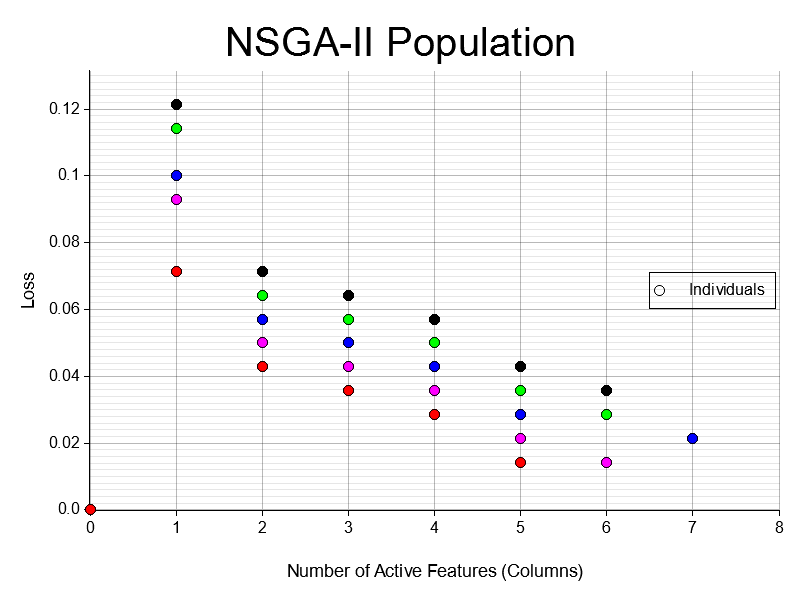
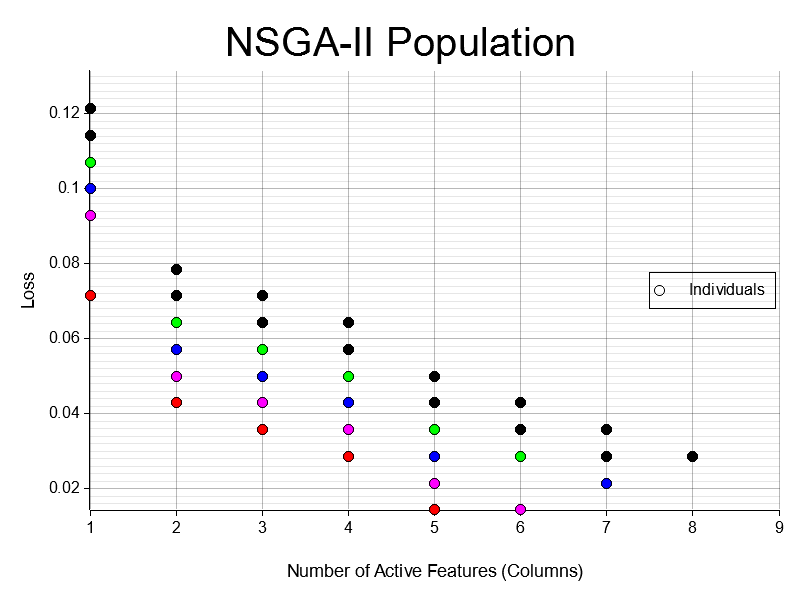
Fixed issue with possibility of spawning w zero selected features

diff --git a/src/algorithms/moo/moo.rs b/src/algorithms/moo/moo.rs
@@ -107,20 +107,25 @@ impl From<Combination> for MooCombination {
 /// Creates a single MooCombination, either from an existing Combination in `data`
 /// or as a brand new one with random bits.
 pub fn create_individual(gene_length: usize, data: &Vec<Combination>) -> MooCombination {
-    let mut activated_columns = vec![false; gene_length];
     let mut rng = rand::rng();
 
-    // Randomly generate a bit vector of length = num_columns
-    let num_columns = 9;
-    for i in 0..num_columns {
-        let random_value: f64 = rng.random_range(0.0..1.0);
-        activated_columns[i] = random_value < 0.5;
+    let mut activated_columns = vec![false; gene_length];
+
+    let num_active = rng.random_range(1..=gene_length);
+
+    // Create a list of indices and shuffle it.
+    let mut indices: Vec<usize> = (0..gene_length).collect();
+    indices.shuffle(&mut rng);
+
+    // Set the first num_active indices to true.
+    for &i in indices.iter().take(num_active) {
+        activated_columns[i] = true;
     }
+
 
     if let Some(existing) = data.iter().find(|c| c.combination == activated_columns) {
         existing.clone().into()
     } else {
-        // Otherwise create a new MooCombination
         MooCombination {
             combination: activated_columns,
             loss: 0.0,
@@ -209,6 +214,9 @@ pub fn bit_flip_mutation(individual: &mut MooCombination, mutation_probability: 
             individual.combination[i] = !individual.combination[i];
         }
     }
+
+    // Ensure at least one feature is selected after mutation
+    enforce_valid_combination(individual);
 }
 
 /// Binary tournament selection using rank and crowding_distance from MooCombination.
@@ -413,6 +421,14 @@ pub fn crowding_distance(population_front: &mut [MooCombination]) {
     // 5) Assign crowding distance for each objective
     assign_crowding_distance_for_objective(0, &normalized_fitnesses, population_front);
     assign_crowding_distance_for_objective(1, &normalized_fitnesses, population_front);
+}
+
+pub fn enforce_valid_combination(individual: &mut MooCombination) {
+    // Ensure that at least one feature is selected.
+    if individual.combination.iter().all(|&b| !b) {
+        let random_index = rand::rng().random_range(0..individual.combination.len());
+        individual.combination[random_index] = true;
+    }
 }
 
 pub fn generate_offspring_population(population: &[MooCombination], mutation_probability: f64, data: &Vec<Combination>) -> Vec<MooCombination> {
@@ -643,6 +659,5 @@ pub fn init() {
     // 8) Plot the final population
     let plot_filename = "src/output/nsga_2.png";
     plot_population(&final_sorted_population, plot_filename).unwrap();
-
 
 }
